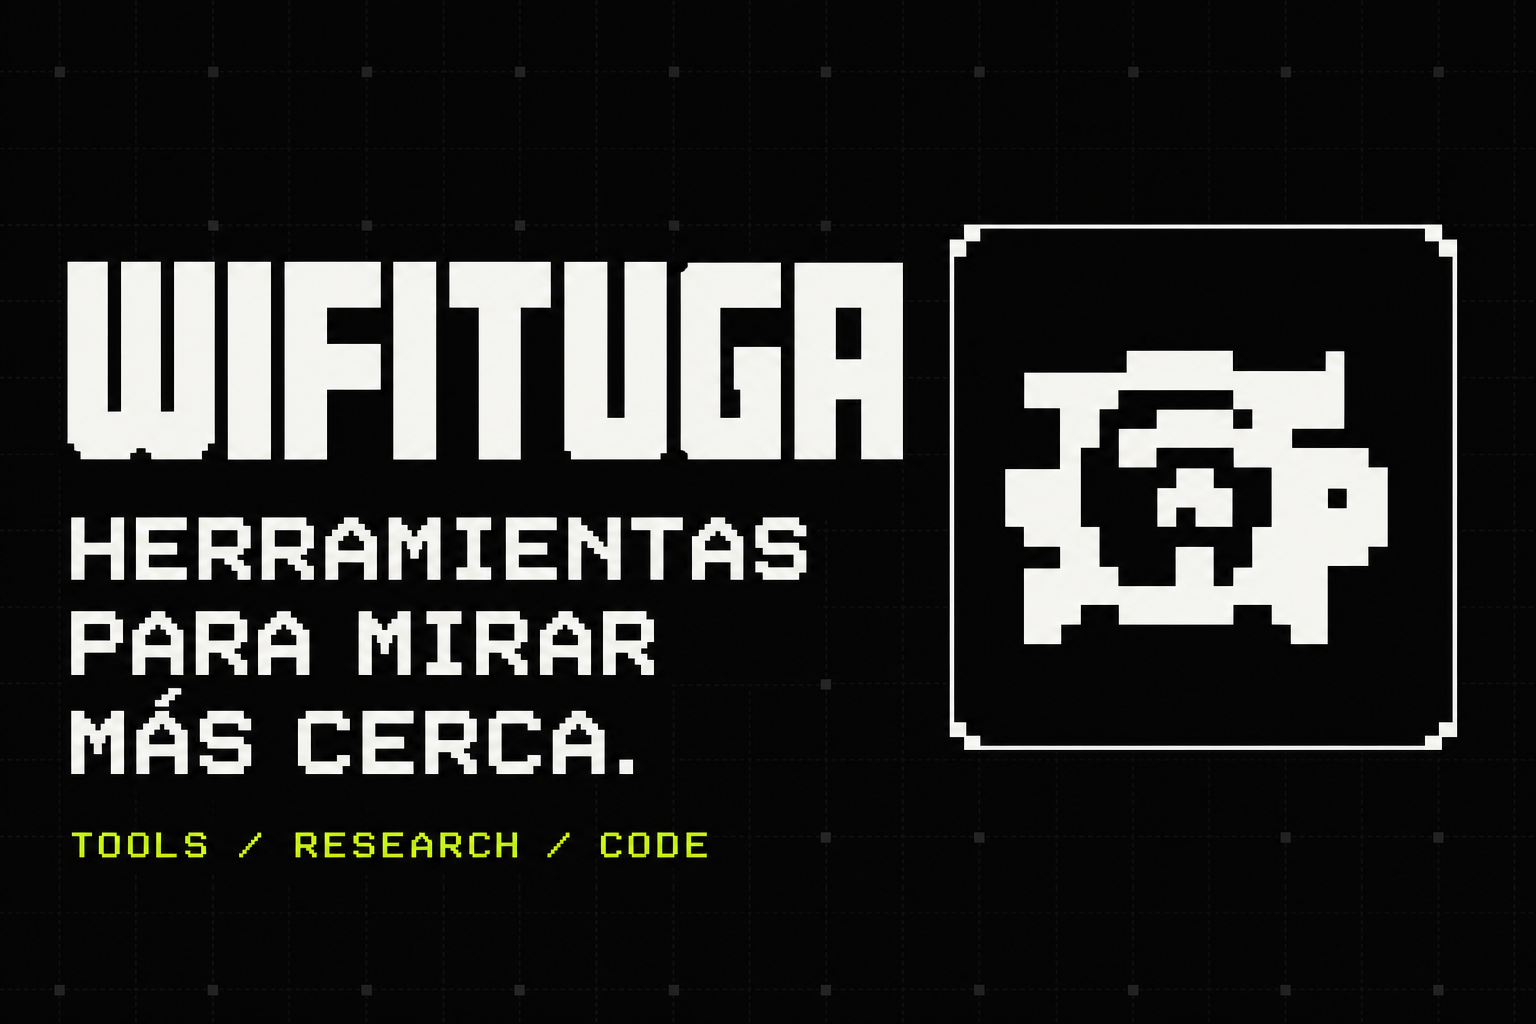
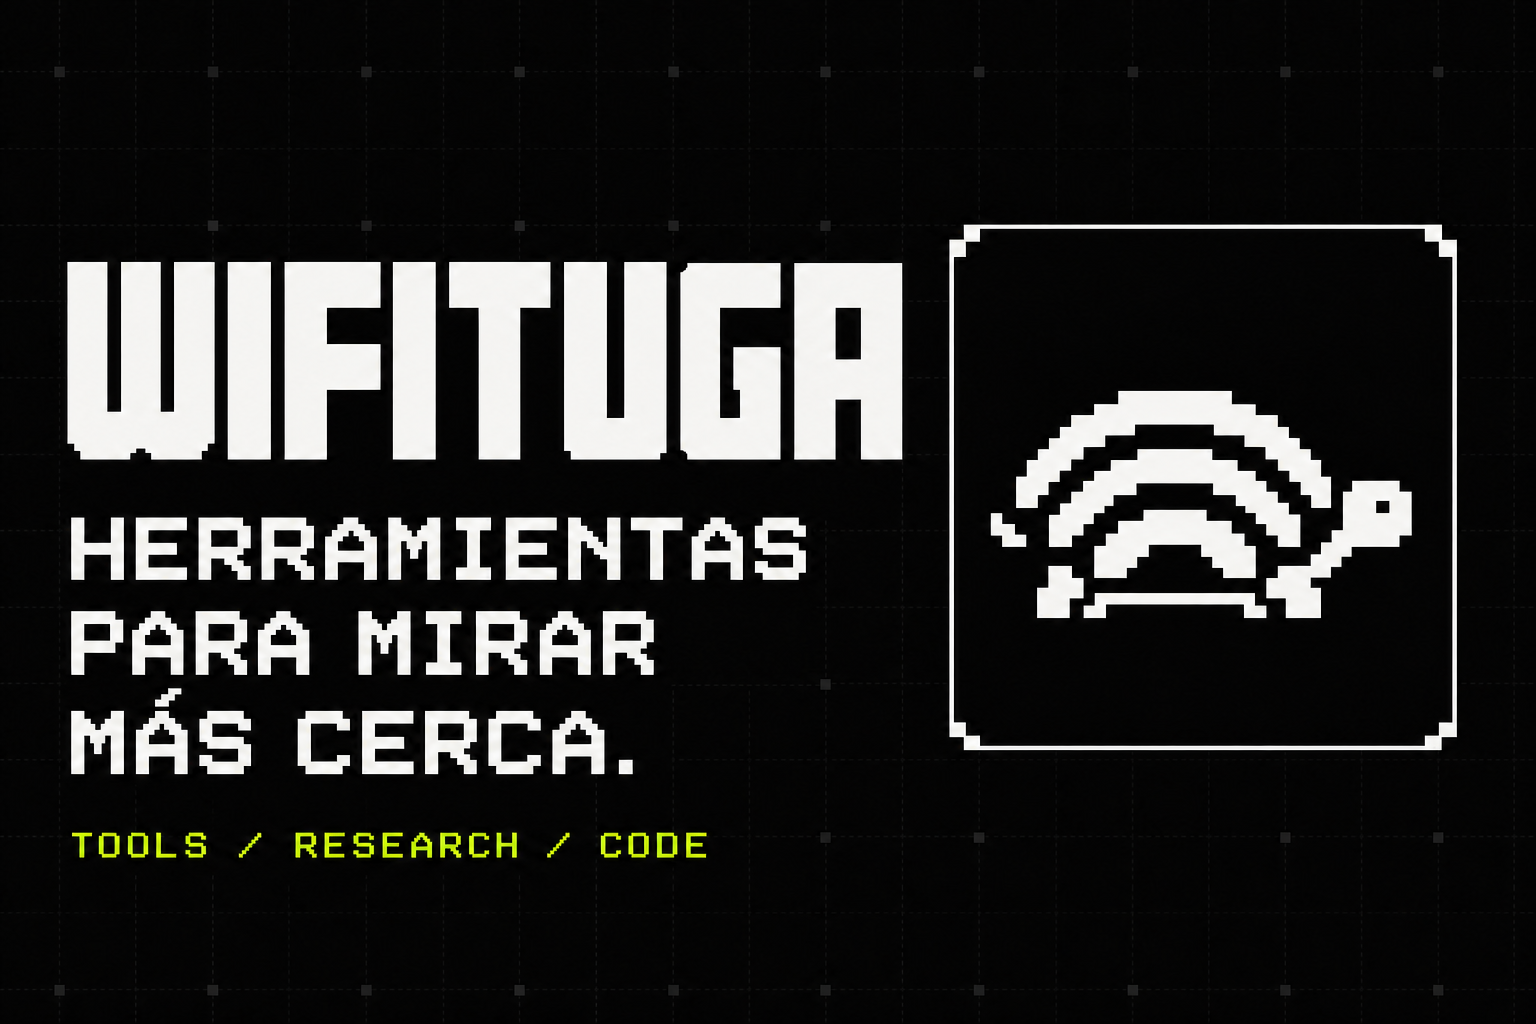
refine wifi shell turtle

diff --git a/styles.css b/styles.css
@@ -417,7 +417,7 @@ h1 em {
   color: var(--ink);
 }
 .product-code span {
-  color: #777;
+  color: #5c5c56;
   font-size: 9px;
   letter-spacing: 0.1em;
 }